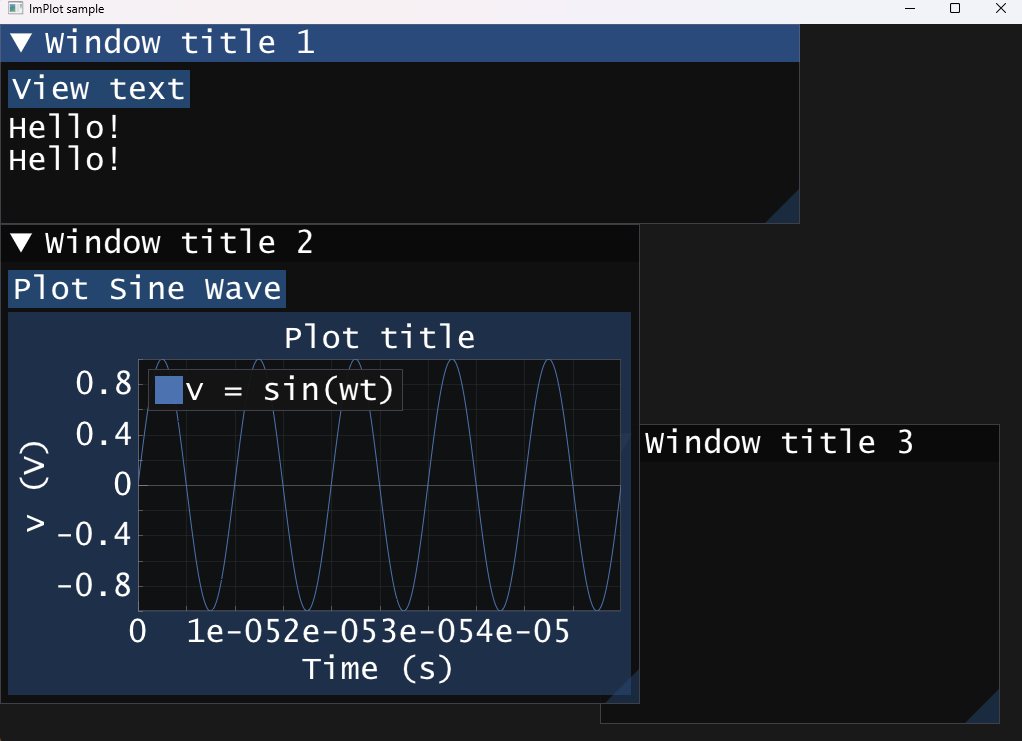
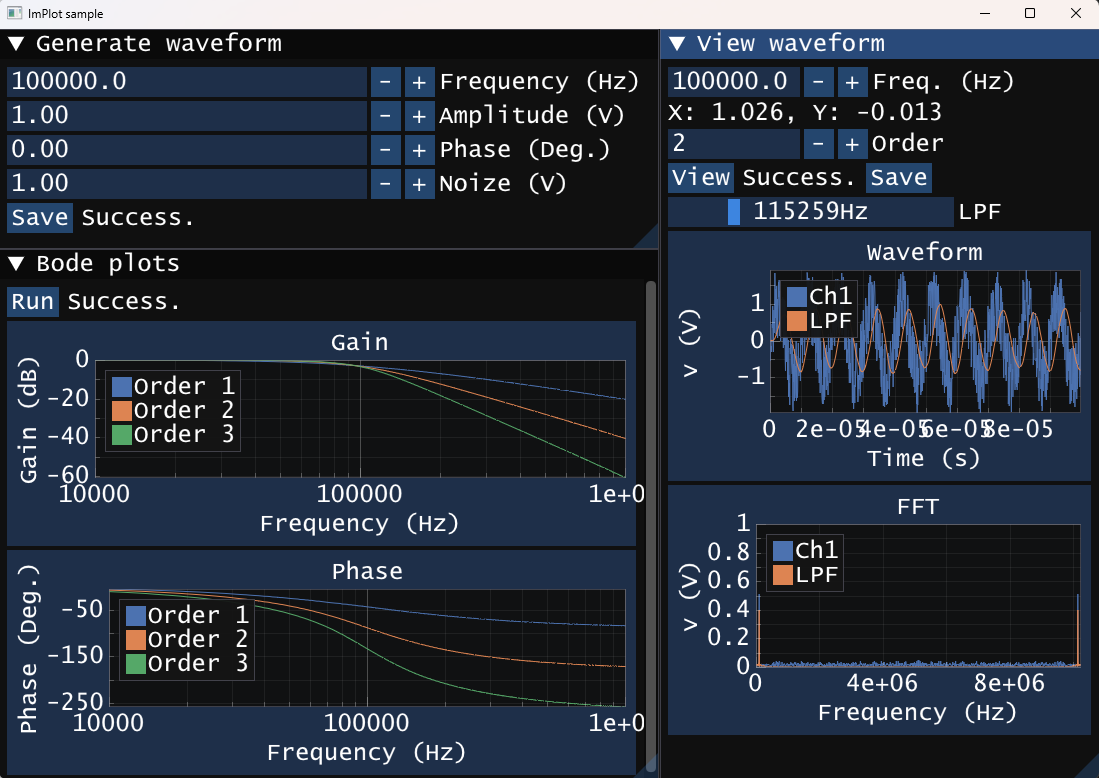
Bode線図を追加

diff --git a/ImPlotSample/main.cpp b/ImPlotSample/main.cpp
@@ -8,7 +8,7 @@
 #include "Commands.h"
 
 #define PI acos(-1)
-#define FILENAME "data.csv"
+#define FILENAME_RAW "raw.csv"
 #define SIZE 1024 // 2^10
 #define DT (10.0/100e3/SIZE)
 
@@ -16,6 +16,7 @@
 void ShowWindow1(const char title[]);
 void ShowWindow2(const char title[]);
 void ShowWindow3(const char title[]);
+void ShowWindow4(const char title[]);
 
 void fft(std::vector<std::complex<double>>& a);
 
@@ -40,7 +41,8 @@ int main() {
         /*** ここから **********************************/
         ShowWindow1("Generate waveform");
         ShowWindow2("View waveform");
-        ShowWindow3("Window title 3");
+        ShowWindow3("Bode plots");
+        //ShowWindow4("Window title 4");
 
 
         /*** ここまで **********************************/
@@ -60,9 +62,9 @@ void ShowWindow1(const char title[]) {
     static double frequency = 100e3;
     static double amplitude = 1.0;
     static double phase_deg = 0.0, phase_rad = 0.0;
-    static double waveform[SIZE];
+    static double waveform[SIZE] = { 0 };
     static double noize = 0.0; // 追加
-	static double fft[SIZE];
+	static double fft[SIZE] = { 0 };
     // ウィンドウ開始
     ImGui::SetNextWindowPos(ImVec2(0, 0), ImGuiCond_FirstUseEver);
     ImGui::SetNextWindowSize(ImVec2(660 * Gui::monitorScale, 220 * Gui::monitorScale), ImGuiCond_FirstUseEver);
@@ -88,7 +90,7 @@ void ShowWindow1(const char title[]) {
 		Commands::getWaveform(&wfp, waveform);
 
         // 保存
-        if (Commands::saveWaveform(&wfp, FILENAME, waveform)) {
+        if (Commands::saveWaveform(&wfp, FILENAME_RAW, waveform)) {
             text = "Success.\n";
         }
         else {
@@ -103,13 +105,13 @@ void ShowWindow1(const char title[]) {
 }
 
 void ShowWindow2(const char title[]) {
-    static std::string text = "";
-    static double times[SIZE], wf_raw[SIZE], wf_lpf[SIZE];
-    static double freqs[SIZE], amps_raw[SIZE], amps_lpf[SIZE];
+    static std::string text1 = "", text2 = "";
+    static double times[SIZE] = { 0 }, wf_raw[SIZE] = { 0 }, wf_lpf[SIZE] = { 0 };
+    static double freqs[SIZE] = { 0 }, amps_raw[SIZE] = { 0 }, amps_lpf[SIZE] = { 0 };
     static double freq = 100e3, x = 0, y = 0;
     static int order = 2;
     static float lpfreq = 1e4;
-
+    static Commands::WaveformParams wfp;
     // ウィンドウ開始
     ImGui::SetNextWindowPos(ImVec2(660 * Gui::monitorScale, 0), ImGuiCond_FirstUseEver);
     ImGui::SetNextWindowSize(ImVec2(440 * Gui::monitorScale, 750 * Gui::monitorScale), ImGuiCond_FirstUseEver);
@@ -131,26 +133,39 @@ void ShowWindow2(const char title[]) {
         // ボタンが押されたらここが実行される
         /*** ここから *************************************************/
         // 波形データ読み込み
-        Commands::WaveformParams wfp;
         wfp.size = SIZE;
 		wfp.dt = DT;
 		wfp.frequency = freq;
-        if(Commands::loadWaveform(&wfp, FILENAME, times, wf_raw)) {
-            text = "Success.\n";
+        if(Commands::loadWaveform(&wfp, FILENAME_RAW, times, wf_raw)) {
+            text1 = "Success.";
         }
         else {
-            text = "[Error] Failed to open file for reading.\n";
+            text1 = "[Error] Failed to open file for reading.";
 		}
         // PSD
-        Commands::psd(&wfp, wf_raw, &x, &y);
-        // FFT計算
+        Commands::runPsd(&wfp, wf_raw, &x, &y);
+        // Raw波形のFFT計算
         Commands::runFft(&wfp, wf_raw, freqs, amps_raw);
+		// ローパスフィルタ処理とFFT計算
+        Commands::runLpf(&wfp, order, lpfreq, wf_raw, wf_lpf);
         Commands::runFft(&wfp, wf_lpf, freqs, amps_lpf);
         /*** ここまで *************************************************/
     }
     ImGui::SameLine();
-    ImGui::Text(text.c_str());
-    
+    ImGui::Text(text1.c_str());
+    if (text1 == "Success.") {
+        ImGui::SameLine();
+        if (ImGui::Button("Save")) {
+            if (Commands::saveWaveform(&wfp, "lpf.csv", wf_lpf)) {
+                text2 = "Success.";
+            }
+            else {
+                text2 = "[Error] Failed to open file for writing.";
+            }
+        }
+        ImGui::SameLine();
+        ImGui::Text(text2.c_str());
+    }
     if (ImGui::SliderFloat("LPF", &lpfreq, 1e4, 0.5e6, "%.0fHz")) {
         Commands::WaveformParams wfp;
 		wfp.dt = DT;
@@ -183,7 +198,76 @@ void ShowWindow2(const char title[]) {
 
 void ShowWindow3(const char title[]) {
     // ウィンドウ開始
-    ImGui::SetNextWindowPos(ImVec2(10, 250 * Gui::monitorScale), ImGuiCond_FirstUseEver);
+    ImGui::SetNextWindowPos(ImVec2(0, 220 * Gui::monitorScale), ImGuiCond_FirstUseEver);
+    ImGui::SetNextWindowSize(ImVec2(660 * Gui::monitorScale, 530 * Gui::monitorScale), ImGuiCond_FirstUseEver);
+    ImGui::Begin(title);
+    /*** 描画したいImGuiのWidgetやImPlotのPlotをここに記述する ***/
+    /*** ここから *************************************************/
+    static double freqs[1000] = { 0 }, gains[3][1000] = { 0 }, phases[3][1000];
+    static Commands::WaveformParams wfp;
+    static std::string text = "";
+    if (ImGui::Button("Run")) {
+        // ボタンが押されたらここが実行される
+        /*** ここから *************************************************/        
+        wfp.amplitude = 1;
+        wfp.dt = DT;
+        wfp.size = SIZE;
+        wfp.frequency = 10e3;
+        // 周波数特性
+        for (int j = 0; j < 3; j++) {
+            wfp.frequency = 10e3;
+            for (int i = 0; i < 1000; i++) {
+                double waveform[SIZE] = { 0 };
+                double x = 0, y = 0, wf_lpf[SIZE];
+                Commands::getWaveform(&wfp, waveform);
+                Commands::runLpf(&wfp, j+1, 100e3, waveform, wf_lpf);
+                freqs[i] = wfp.frequency;
+                gains[j][i] = 20.0 * log10(Commands::runPsd(&wfp, wf_lpf, &x, &y) / wfp.amplitude);
+                phases[j][i] = atan2(y, x) / PI * 180;
+				if (phases[j][i] > 0) phases[j][i] -= 360;
+                wfp.frequency += 1e3;
+            }
+        }
+        text = "[Error] Failed to open file for writing.";
+        wfp.size = 1000;
+        if (Commands::saveWaveforms(&wfp, "bode_gain.csv", freqs, gains[0], gains[1], gains[2])) {
+            if (Commands::saveWaveforms(&wfp, "bode_phase.csv", freqs, phases[0], phases[1], phases[2])) {
+                text = "Success.";
+            }
+        }
+        /*** ここまで *************************************************/
+    }
+    ImGui::SameLine();
+    ImGui::Text(text.c_str());
+    ImPlot::SetNextAxesToFit();
+    if (ImPlot::BeginPlot("Gain", ImVec2(-1, 225 * Gui::monitorScale))) {
+        ImPlot::SetupAxisScale(ImAxis_X1, ImPlotScale_Log10);
+        ImPlot::SetupAxis(ImAxis_X1, "Frequency (Hz)");
+        ImPlot::SetupAxis(ImAxis_Y1, "Gain (dB)");
+        for (int j = 0; j < 3; j++) {
+            std::string label = "Order " + std::to_string(j + 1);
+            ImPlot::PlotLine(label.c_str(), freqs, gains[j], 1000);
+        }
+        ImPlot::EndPlot();
+    }
+    ImPlot::SetNextAxesToFit();
+    if (ImPlot::BeginPlot("Phase", ImVec2(-1, 225 * Gui::monitorScale))) {
+        ImPlot::SetupAxisScale(ImAxis_X1, ImPlotScale_Log10);
+        ImPlot::SetupAxis(ImAxis_X1, "Frequency (Hz)");
+        ImPlot::SetupAxis(ImAxis_Y1, "Phase (Deg.)");
+        for (int j = 0; j < 3; j++) {
+            std::string label = "Order " + std::to_string(j + 1);
+            ImPlot::PlotLine(label.c_str(), freqs, phases[j], 1000);
+        }
+        ImPlot::EndPlot();
+    }
+    /*** ここまで *************************************************/
+    // ウィンドウ終了
+    ImGui::End();
+}
+
+void ShowWindow4(const char title[]) {
+    // ウィンドウ開始
     ImGui::SetNextWindowSize(ImVec2(600 * Gui::monitorScale, 450 * Gui::monitorScale), ImGuiCond_FirstUseEver);
     ImGui::Begin(title);
     /*** 描画したいImGuiのWidgetやImPlotのPlotをここに記述する ***/
@@ -191,11 +275,9 @@ void ShowWindow3(const char title[]) {
     // https://github.com/epezent/implot
     // https://github.com/daigokk/ImPlotSample
     /*** ここから *************************************************/
-	
+    
 
     /*** ここまで *************************************************/
     // ウィンドウ終了
     ImGui::End();
 }
-
-
